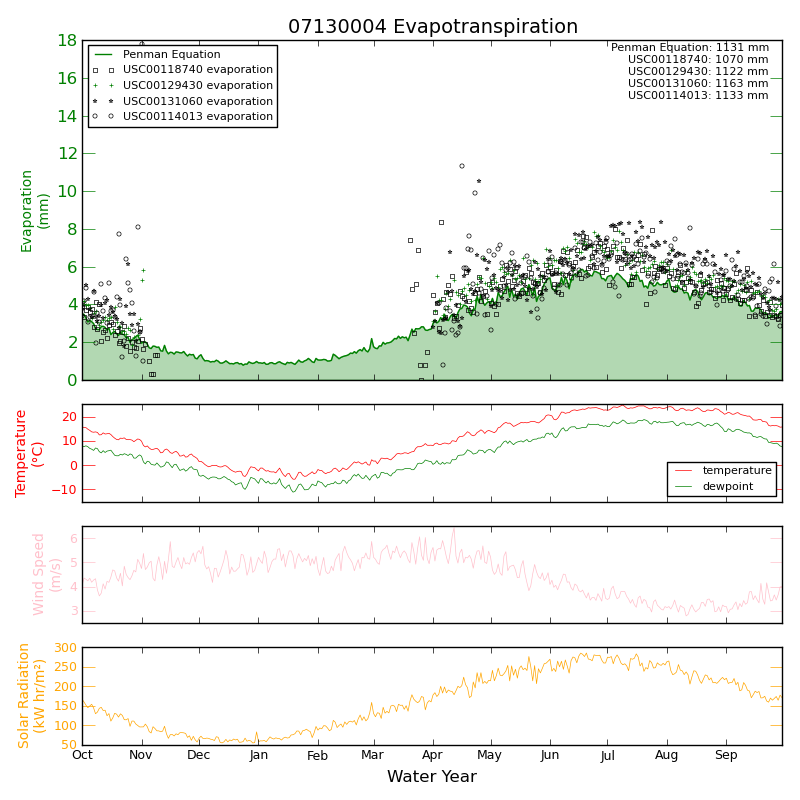
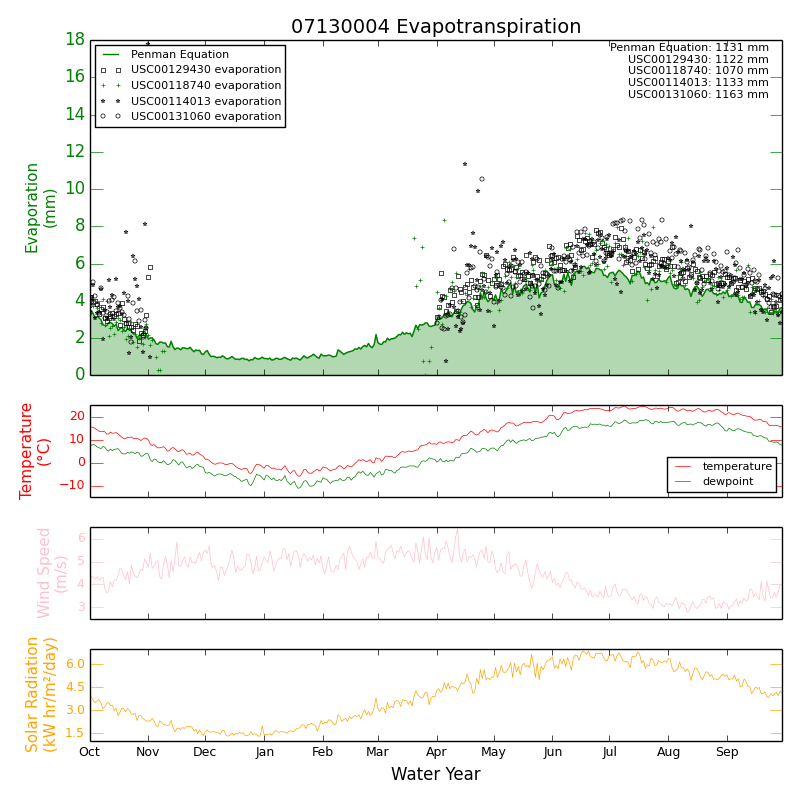
fixed plot units

Changed region(s): [[0.0, 0.0, 1.0, 1.0], [0.75, 0.0312, 0.9688, 0.125], [0.875, 0.8438, 0.9688, 0.875]]

diff --git a/pyhspf-0.1.1/pyhspf/preprocessing/climateplots.py b/pyhspf-0.1.1/pyhspf/preprocessing/climateplots.py
@@ -329,7 +329,7 @@ def plot_nsrdb(station, start, end, show = False, output = None,
 
     sub.set_title('Average Daily Solar Radition, {}'.format(station.station))
     sub.set_xlabel('Time')
-    sub.set_ylabel('Solar Radiation (kW hr/m\u00B2)')
+    sub.set_ylabel('Solar Radiation (kW hr/m\u00B2/day)')
 
     for dataset, l, c in zip([station.observed, station.suny, 
                               station.metstat, station.legacy],
@@ -914,7 +914,8 @@ def plot_solar(solarfile, HUC8, year, output = None, verbose = False):
     #pyplot.close()
 
 def plot_dailyET(HUC8, start, end, ET, evaporations, tmin, tmax, dewpoint, 
-                  wind, solar, output = None, show = False, verbose = True):
+                 wind, solar, axsize = 11, output = None, show = False, 
+                 verbose = True):
 
     if verbose: print('plotting daily potential evapotranspiration for ' +
                       '{}\n'.format(HUC8))
@@ -951,7 +952,7 @@ def plot_dailyET(HUC8, start, end, ET, evaporations, tmin, tmax, dewpoint,
                           markerfacecolor = 'None', markersize = 3, label = k)
     subs[i].plot_date(times, ET, fmt = '-', color = 'green', lw = 1.,
                       label = 'potential evapotranspiration')
-    subs[i].set_ylabel('Evaporation (mm)')
+    subs[i].set_ylabel('Evaporation (mm)', size = axsize)
     subs[i].yaxis.set_major_locator(MaxNLocator(10))
     subs[i].legend(fontsize = 8, loc = 'lower left')
 
@@ -965,7 +966,7 @@ def plot_dailyET(HUC8, start, end, ET, evaporations, tmin, tmax, dewpoint,
                       label = 'min temperature')
     subs[i].plot_date(times, dewpoint, fmt = '-', color = 'green', lw = 0.5, 
                       label = 'dewpoint')
-    subs[i].set_ylabel('Temperature (\u00B0C)')
+    subs[i].set_ylabel('Temperature (\u00B0C)', size = axsize)
     subs[i].yaxis.set_major_locator(MaxNLocator(5))
     subs[i].legend(fontsize = 8, loc = 'lower left')
 
@@ -975,7 +976,7 @@ def plot_dailyET(HUC8, start, end, ET, evaporations, tmin, tmax, dewpoint,
 
     subs[i].plot_date(times, wind, fmt = '-', color = 'pink', lw = 0.5, 
                       label = 'wind')
-    subs[i].set_ylabel('Wind Speed\n(m/s)', color = 'pink', 
+    subs[i].set_ylabel('Wind Speed\n(m/s)', color = 'pink', size = axsize,
                        multialignment = 'center')
     subs[i].yaxis.set_major_locator(MaxNLocator(5))
 
@@ -985,8 +986,8 @@ def plot_dailyET(HUC8, start, end, ET, evaporations, tmin, tmax, dewpoint,
 
     subs[i].plot_date(times, solar, fmt = '-', color = 'orange', lw = 0.5,
                       label = 'solar')
-    subs[i].set_ylabel('Solar Radiation\n(kW hr/m\u00B2)', color = 'orange',
-                       multialignment = 'center')
+    subs[i].set_ylabel('Solar Radiation\n(kW hr/m\u00B2/day)', color = 'orange',
+                       multialignment = 'center', size = axsize)
     subs[i].yaxis.set_major_locator(MaxNLocator(5))
 
     pyplot.tight_layout()
@@ -995,7 +996,7 @@ def plot_dailyET(HUC8, start, end, ET, evaporations, tmin, tmax, dewpoint,
     if show: pyplot.show()
 
 def plot_dayofyearET(HUC8, start, end, evaporations, ETs, tmin, tmax, dewpoint,
-                      wind, solar, labels = None, fill = False,
+                     wind, solar, labels = None, fill = False, axsize = 11,
                      output = None, show = False):
     """Plots the day of the water year estimates of ET from the Penman 
     Model."""
@@ -1061,7 +1062,7 @@ def plot_dayofyearET(HUC8, start, end, evaporations, ETs, tmin, tmax, dewpoint,
         if fill:
             subs[i].fill_between(times, 0, ET, color = c, alpha = 0.3)
 
-    subs[i].set_ylabel('Evaporation (mm)')
+    subs[i].set_ylabel('Evaporation (mm)', size = axsize)
     subs[i].legend(fontsize = 8, loc = 'upper left')
     t = ''.join(tots)
     subs[i].text(0.98, 0.99, t, ha = 'right', va = 'top', 
@@ -1077,7 +1078,7 @@ def plot_dayofyearET(HUC8, start, end, evaporations, ETs, tmin, tmax, dewpoint,
                       label = 'min temperature')
     subs[i].plot_date(times, dewpoint, fmt = '-', color = 'green', lw = 0.5, 
                       label = 'dewpoint')
-    subs[i].set_ylabel('Temperature (\u00B0C)')
+    subs[i].set_ylabel('Temperature (\u00B0C)', size = axsize)
 
     subs[i].legend(fontsize = 8, loc = 'lower right')
 
@@ -1088,7 +1089,7 @@ def plot_dayofyearET(HUC8, start, end, evaporations, ETs, tmin, tmax, dewpoint,
     subs[i].plot_date(times, wind, fmt = '-', color = 'pink', lw = 0.5, 
                       label = 'wind')
     subs[i].set_ylabel('Wind Speed\n(m/s)', color = 'pink', 
-                       multialignment = 'center')
+                       multialignment = 'center', size = axsize)
 
     # daily solar radiation
 
@@ -1096,8 +1097,8 @@ def plot_dayofyearET(HUC8, start, end, evaporations, ETs, tmin, tmax, dewpoint,
 
     subs[i].plot_date(times, solar, fmt = '-', color = 'orange', lw = 0.5,
                       label = 'solar')
-    subs[i].set_ylabel('Solar Radiation\n(kW hr/m\u00B2)', color = 'orange',
-                       multialignment = 'center')
+    subs[i].set_ylabel('Solar Radiation\n(kW hr/m\u00B2/day)', color = 'orange',
+                       multialignment = 'center', size = axsize)
 
     # ticks
 
@@ -1110,7 +1111,7 @@ def plot_dayofyearET(HUC8, start, end, evaporations, ETs, tmin, tmax, dewpoint,
     labels = [t.get_text() for t in subs[-1].get_xticklabels()]
     labels = ['Oct', 'Nov', 'Dec', 'Jan', 'Feb', 'Mar',
               'Apr', 'May', 'Jun', 'Jul', 'Aug', 'Sep']
-    subs[-1].set_xticklabels(labels)
+    subs[-1].set_xticklabels(labels, size = axsize)
 
     #pyplot.tight_layout()
     if output is not None: pyplot.savefig(output)
@@ -1119,7 +1120,8 @@ def plot_dayofyearET(HUC8, start, end, evaporations, ETs, tmin, tmax, dewpoint,
 
 def plot_hourlyET(HUC8, start, end, evaporations, hETs, temp, 
                   dewpoint, wind, solar, labels = None, colors = None, 
-                  fill = False, output = None, show = False, verbose = True):
+                  axsize = 11, fill = False, output = None, show = False, 
+                  verbose = True):
 
     if verbose: print('plotting hourly evapotranspiration\n')
 
@@ -1216,7 +1218,7 @@ def plot_hourlyET(HUC8, start, end, evaporations, hETs, temp,
             tot = sum([e for e in evaporation if e is not None])
             tots.append('\n{}: {:4.0f} mm'.format(k, tot))
 
-    subs[i].set_ylabel('Evaporation\n(mm)', color = 'green', size = 10, 
+    subs[i].set_ylabel('Evaporation\n(mm)', color = 'green', size = axsize, 
                        multialignment = 'center')
     subs[i].legend(fontsize = 8, loc = 'upper left')
     t = ''.join(tots)
@@ -1232,7 +1234,7 @@ def plot_hourlyET(HUC8, start, end, evaporations, hETs, temp,
                       label = 'temperature')
     subs[i].plot_date(times, dewpoint, fmt = '-', color = 'green', lw = 0.5, 
                       label = 'dewpoint')
-    subs[i].set_ylabel('Temperature\n(\u00B0C)', size = 10, color = 'red',
+    subs[i].set_ylabel('Temperature\n(\u00B0C)', size = axsize, color = 'red',
                        multialignment = 'center')
     subs[i].tick_params(axis = 'y', colors = 'red', size = 9)
 
@@ -1245,7 +1247,7 @@ def plot_hourlyET(HUC8, start, end, evaporations, hETs, temp,
     subs[i].plot_date(times, wind, fmt = '-', color = 'pink', lw = 0.5, 
                       label = 'wind')
     subs[i].tick_params(axis = 'y', colors = 'pink', size = 9)
-    subs[i].set_ylabel('Wind Speed\n(m/s)', color = 'pink', size = 10, 
+    subs[i].set_ylabel('Wind Speed\n(m/s)', color = 'pink', size = axsize, 
                        multialignment = 'center')
 
     # daily solar radiation
@@ -1255,8 +1257,8 @@ def plot_hourlyET(HUC8, start, end, evaporations, hETs, temp,
     subs[i].plot_date(times, solar, fmt = '-', color = 'orange', lw = 0.5,
                       label = 'solar')
     subs[i].tick_params(axis = 'y', colors = 'orange', size = 9)
-    subs[i].set_ylabel('Solar Radiation\n(kW hr/m\u00B2)', color = 'orange',
-                       multialignment = 'center', size = 10)
+    subs[i].set_ylabel('Solar Radiation\n(kW hr/m\u00B2/day)', color = 'orange',
+                       multialignment = 'center', size = axsize)
 
     # ticks
 

diff --git a/pyhspf-0.1.1/pyhspf/preprocessing/crop_coefficient.py b/pyhspf-0.1.1/pyhspf/preprocessing/crop_coefficient.py
@@ -200,6 +200,10 @@ def calculate_cropPET(directory, HUC8, start, end, hourly = True,
             with open('{}/{}/evaporations/evaporation'.format(*v), 'rb') as f: 
                 evaporations = pickle.load(f)
 
+            # Watts/m2 to kW hr/m2
+
+            solar = [s * 0.024 for s in solar]
+
             plot_dayofyearET(HUC8, start, end, evaporations, PETs, tmin, tmax, 
                              dewpoint, wind, solar, labels = crops, 
                              output = output)
@@ -235,6 +239,10 @@ def calculate_cropPET(directory, HUC8, start, end, hourly = True,
             v = directory, HUC8
             with open('{}/{}/evaporations/evaporation'.format(*v), 'rb') as f: 
                 evaporations = pickle.load(f)
+
+            # Watts/m2 to kW hr/m2
+
+            solar = [s * 0.024 for s in solar]
 
             plot_hourlyET(HUC8, start, end, evaporations, PETs, temp, dewpoint, 
                           wind, solar, labels = crops, output = output)

diff --git a/pyhspf-0.1.1/pyhspf/preprocessing/make_timeseries.py b/pyhspf-0.1.1/pyhspf/preprocessing/make_timeseries.py
@@ -463,6 +463,10 @@ def make_timeseries(directory, HUC8, start, end, verbose = True):
         with open(dailyRET, 'rb') as f: 
             s, t, RET = pickle.load(f)
 
+        # Watts/m2 to kW hr/m2
+
+        dsolar = [s * 0.024 for s in dsolar]
+
         plot_dailyET(HUC8, start, end, RET, evaporations, tmin, tmax, 
                      dewpoint, wind, dsolar, output = dailyRET)
 
@@ -512,6 +516,10 @@ def make_timeseries(directory, HUC8, start, end, verbose = True):
             s, t, solar = pickle.load(f)
         with open(hourlyRET, 'rb') as f: 
             s, t, hRET = pickle.load(f)
+
+        # Watts/m2 to kW hr/m2
+
+        solar = [s * 0.024 for s in solar]
 
         with open(evapstations, 'rb') as f: evaporations = pickle.load(f)
 
